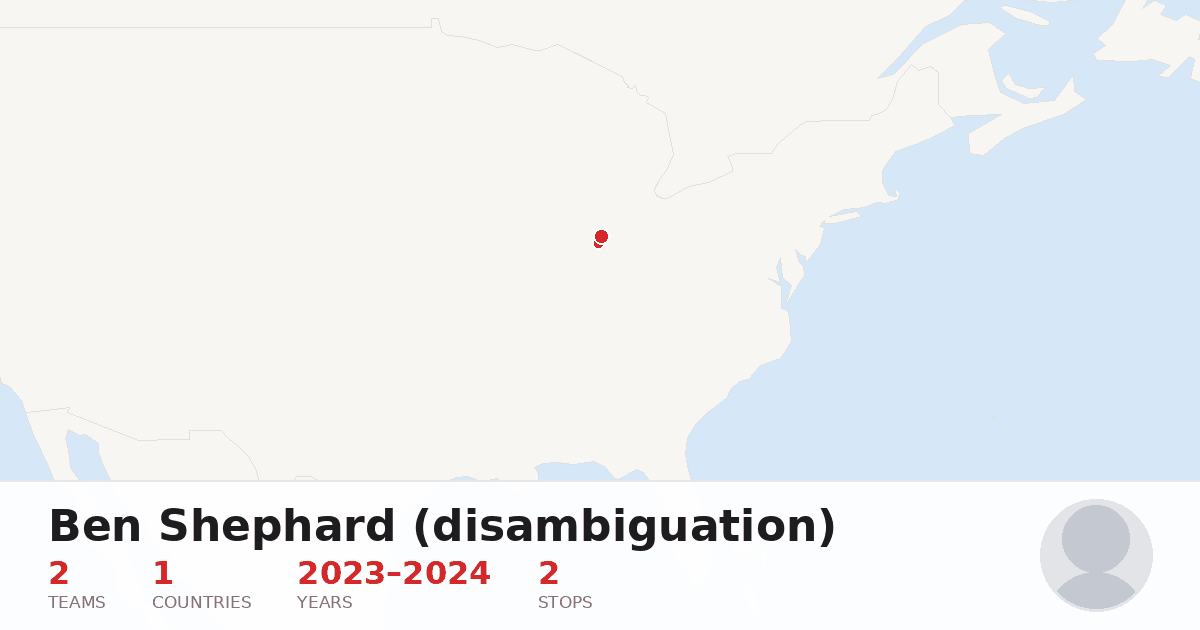
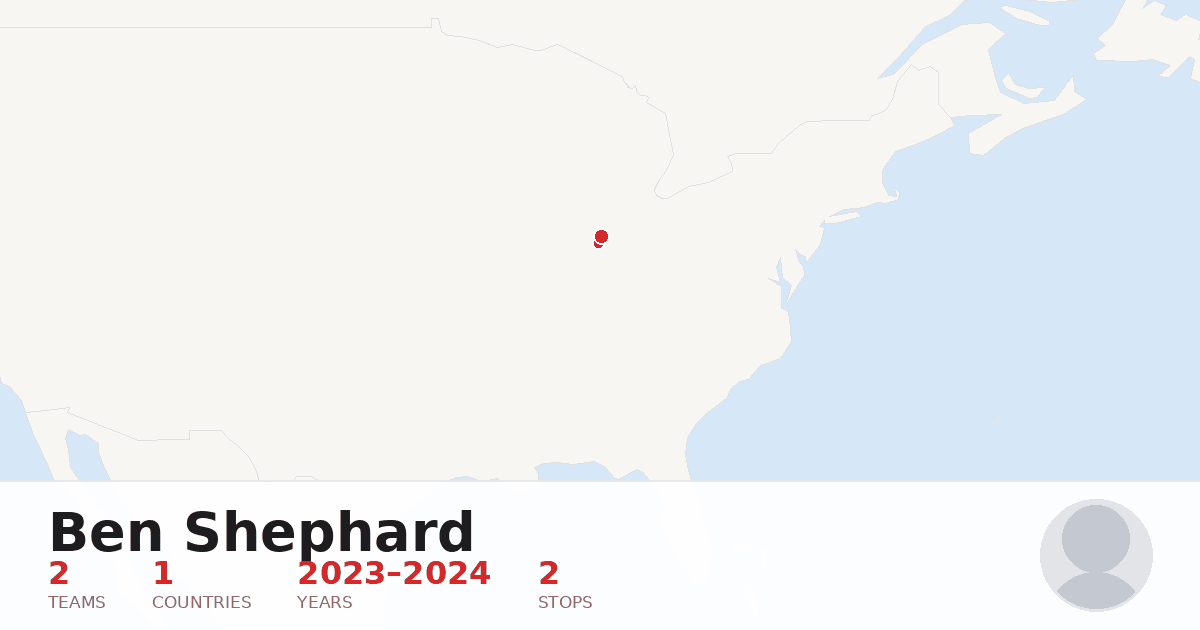
Never replace a career with an empty one
The first apply run condemned Michael Wilson's record, correctly -- his
thirteen stints were Mike Gibson's -- and then replaced them with a parse of an
article that has no infobox, leaving him with no career at all. A wrong career
is bad; no career is not an improvement. An article that parses to nothing now
leaves the record alone and is reported as a conflict.

Merged records also took the article's title as their display name, so the site
would have printed "Johnny Davis (NBA)" and "Kevin Porter (basketball, born
1950)". The disambiguator belongs to Wikipedia's index, not to the man; five
display names cleaned, and the merge no longer writes one.

Claude-Session: https://claude.ai/code/session_01JYLur1NWay3xq9MC3fUtkz

Changed region(s): [[0.0308, 0.7841, 0.7092, 0.9048]]

diff --git a/player/christapher-johnson.html b/player/christapher-johnson.html
@@ -5,33 +5,33 @@
 <meta name="viewport" content="width=device-width, initial-scale=1.0">
 <!-- Generated by scripts/prerender.py from the career database. Do not edit by
      hand: the next pipeline run overwrites it. -->
-<title>Where Has Chris Johnson (basketball, born 1990) Played? Every Team, City and Country | HoopsHype</title>
-<meta name="description" content="Chris Johnson (basketball, born 1990) played for 10 clubs in 3 countries: Rio Grande Valley Vipers, Memphis Grizzlies and more, last with Hapoel Jerusalem.">
+<title>Where Has Chris Johnson Played? Every Team, City and Country | HoopsHype</title>
+<meta name="description" content="Chris Johnson played for 10 clubs in 3 countries: Rio Grande Valley Vipers, Memphis Grizzlies, Boston Celtics and more, last with Hapoel Jerusalem.">
 <link rel="canonical" href="https://jsierrahoopshype.github.io/nba-career-map/player/christapher-johnson.html">
 <meta property="og:type" content="profile">
 <meta property="og:site_name" content="NBA Career Map">
-<meta property="og:title" content="Where Has Chris Johnson (basketball, born 1990) Played? Every Team, City and Country | HoopsHype">
-<meta property="og:description" content="Chris Johnson (basketball, born 1990) played for 10 clubs in 3 countries: Rio Grande Valley Vipers, Memphis Grizzlies and more, last with Hapoel Jerusalem.">
+<meta property="og:title" content="Where Has Chris Johnson Played? Every Team, City and Country | HoopsHype">
+<meta property="og:description" content="Chris Johnson played for 10 clubs in 3 countries: Rio Grande Valley Vipers, Memphis Grizzlies, Boston Celtics and more, last with Hapoel Jerusalem.">
 <meta property="og:url" content="https://jsierrahoopshype.github.io/nba-career-map/player/christapher-johnson.html">
-<meta property="og:image" content="https://jsierrahoopshype.github.io/nba-career-map/assets/og-career-map.png">
+<meta property="og:image" content="https://jsierrahoopshype.github.io/nba-career-map/assets/og/player/chris-johnson.png">
 <meta property="og:image:width" content="1200">
 <meta property="og:image:height" content="630">
-<meta property="og:image:alt" content="NBA career paths drawn as red arcs across a map of the United States, with NBA team logos at each stop">
+<meta property="og:image:alt" content="Chris Johnson's NBA career path drawn as red arcs across a world map, with a marker at every club he has played for">
 <meta name="twitter:card" content="summary_large_image">
-<meta name="twitter:title" content="Where Has Chris Johnson (basketball, born 1990) Played? Every Team, City and Country | HoopsHype">
-<meta name="twitter:description" content="Chris Johnson (basketball, born 1990) played for 10 clubs in 3 countries: Rio Grande Valley Vipers, Memphis Grizzlies and more, last with Hapoel Jerusalem.">
-<meta name="twitter:image" content="https://jsierrahoopshype.github.io/nba-career-map/assets/og-career-map.png">
-<meta name="twitter:image:alt" content="NBA career paths drawn as red arcs across a map of the United States, with NBA team logos at each stop">
+<meta name="twitter:title" content="Where Has Chris Johnson Played? Every Team, City and Country | HoopsHype">
+<meta name="twitter:description" content="Chris Johnson played for 10 clubs in 3 countries: Rio Grande Valley Vipers, Memphis Grizzlies, Boston Celtics and more, last with Hapoel Jerusalem.">
+<meta name="twitter:image" content="https://jsierrahoopshype.github.io/nba-career-map/assets/og/player/chris-johnson.png">
+<meta name="twitter:image:alt" content="Chris Johnson's NBA career path drawn as red arcs across a world map, with a marker at every club he has played for">
 <link rel="stylesheet" href="../assets/prerender.css">
 </head>
 <body>
 <header class="ph"><a class="brand" href="../index.html">NBA Career Map</a>
 <nav><a href="../teams.html">Teams</a><a href="../index.html?view=quiz">Quiz</a></nav></header>
 <main>
-<h1>Where has Chris Johnson (basketball, born 1990) played?</h1>
-<p class="lede">Chris Johnson (basketball, born 1990) played for 10 clubs in 3 countries: Rio Grande Valley Vipers, Memphis Grizzlies and more, last with Hapoel Jerusalem.</p>
+<h1>Where has Chris Johnson played?</h1>
+<p class="lede">Chris Johnson played for 10 clubs in 3 countries: Rio Grande Valley Vipers, Memphis Grizzlies, Boston Celtics and more, last with Hapoel Jerusalem.</p>
 <dl class="facts"><dt>Nationality</dt><dd>United States</dd><dt>Current team</dt><dd>Hapoel Jerusalem</dd></dl>
-<p class="cta"><a class="btn" href="../index.html?player=Christapher%20Johnson">Open Chris Johnson (basketball, born 1990)'s interactive career map</a></p>
+<p class="cta"><a class="btn" href="../index.html?player=Christapher%20Johnson">Open Chris Johnson's interactive career map</a></p>
 <table class="ct"><thead><tr><th>Years</th><th>Team</th><th>City</th><th>Country</th></tr></thead>
 <tbody>
 <tr><td class="yr">2012–2013</td><td>Rio Grande Valley Vipers</td><td>Edinburg</td><td>USA</td></tr>

diff --git a/player/kevin-porter.html b/player/kevin-porter.html
@@ -5,21 +5,21 @@
 <meta name="viewport" content="width=device-width, initial-scale=1.0">
 <!-- Generated by scripts/prerender.py from the career database. Do not edit by
      hand: the next pipeline run overwrites it. -->
-<title>Where Has Kevin Porter (basketball, born 1950) Played? Every Team, City and Country | HoopsHype</title>
-<meta name="description" content="Kevin Porter (basketball, born 1950) played for 4 clubs in 2 countries: Washington Bullets, Detroit Pistons, New Jersey Nets, last with Toyota Super Corollas.">
+<title>Where Has Kevin Porter Played? Every Team, City and Country | HoopsHype</title>
+<meta name="description" content="Kevin Porter played for 4 clubs in 2 countries: Washington Bullets, Detroit Pistons, New Jersey Nets, last with Toyota Super Corollas.">
 <link rel="canonical" href="https://jsierrahoopshype.github.io/nba-career-map/player/kevin-porter.html">
 <meta property="og:type" content="profile">
 <meta property="og:site_name" content="NBA Career Map">
-<meta property="og:title" content="Where Has Kevin Porter (basketball, born 1950) Played? Every Team, City and Country | HoopsHype">
-<meta property="og:description" content="Kevin Porter (basketball, born 1950) played for 4 clubs in 2 countries: Washington Bullets, Detroit Pistons, New Jersey Nets, last with Toyota Super Corollas.">
+<meta property="og:title" content="Where Has Kevin Porter Played? Every Team, City and Country | HoopsHype">
+<meta property="og:description" content="Kevin Porter played for 4 clubs in 2 countries: Washington Bullets, Detroit Pistons, New Jersey Nets, last with Toyota Super Corollas.">
 <meta property="og:url" content="https://jsierrahoopshype.github.io/nba-career-map/player/kevin-porter.html">
 <meta property="og:image" content="https://jsierrahoopshype.github.io/nba-career-map/assets/og-career-map.png">
 <meta property="og:image:width" content="1200">
 <meta property="og:image:height" content="630">
 <meta property="og:image:alt" content="NBA career paths drawn as red arcs across a map of the United States, with NBA team logos at each stop">
 <meta name="twitter:card" content="summary_large_image">
-<meta name="twitter:title" content="Where Has Kevin Porter (basketball, born 1950) Played? Every Team, City and Country | HoopsHype">
-<meta name="twitter:description" content="Kevin Porter (basketball, born 1950) played for 4 clubs in 2 countries: Washington Bullets, Detroit Pistons, New Jersey Nets, last with Toyota Super Corollas.">
+<meta name="twitter:title" content="Where Has Kevin Porter Played? Every Team, City and Country | HoopsHype">
+<meta name="twitter:description" content="Kevin Porter played for 4 clubs in 2 countries: Washington Bullets, Detroit Pistons, New Jersey Nets, last with Toyota Super Corollas.">
 <meta name="twitter:image" content="https://jsierrahoopshype.github.io/nba-career-map/assets/og-career-map.png">
 <meta name="twitter:image:alt" content="NBA career paths drawn as red arcs across a map of the United States, with NBA team logos at each stop">
 <link rel="stylesheet" href="../assets/prerender.css">
@@ -28,10 +28,10 @@
 <header class="ph"><a class="brand" href="../index.html">NBA Career Map</a>
 <nav><a href="../teams.html">Teams</a><a href="../index.html?view=quiz">Quiz</a></nav></header>
 <main>
-<h1>Where has Kevin Porter (basketball, born 1950) played?</h1>
-<p class="lede">Kevin Porter (basketball, born 1950) played for 4 clubs in 2 countries: Washington Bullets, Detroit Pistons, New Jersey Nets, last with Toyota Super Corollas.</p>
+<h1>Where has Kevin Porter played?</h1>
+<p class="lede">Kevin Porter played for 4 clubs in 2 countries: Washington Bullets, Detroit Pistons, New Jersey Nets, last with Toyota Super Corollas.</p>
 <dl class="facts"><dt>Nationality</dt><dd>United States</dd><dt>Current team</dt><dd>Toyota Super Corollas</dd></dl>
-<p class="cta"><a class="btn" href="../index.html?player=Kevin%20Porter">Open Kevin Porter (basketball, born 1950)'s interactive career map</a></p>
+<p class="cta"><a class="btn" href="../index.html?player=Kevin%20Porter">Open Kevin Porter's interactive career map</a></p>
 <table class="ct"><thead><tr><th>Years</th><th>Team</th><th>City</th><th>Country</th></tr></thead>
 <tbody>
 <tr><td class="yr">1972-1975</td><td>Washington Bullets</td><td>Washington</td><td>USA</td></tr>

diff --git a/player/johnny-davis.html b/player/johnny-davis.html
@@ -5,21 +5,21 @@
 <meta name="viewport" content="width=device-width, initial-scale=1.0">
 <!-- Generated by scripts/prerender.py from the career database. Do not edit by
      hand: the next pipeline run overwrites it. -->
-<title>Where Has Johnny Davis (NBA) Played? Every Team, City and Country | HoopsHype</title>
-<meta name="description" content="Johnny Davis (NBA) played for 4 clubs in the USA: Portland Trail Blazers, Indiana Pacers, Cleveland Cavaliers, last with Atlanta Hawks.">
+<title>Where Has Johnny Davis Played? Every Team, City and Country | HoopsHype</title>
+<meta name="description" content="Johnny Davis played for 4 clubs in the USA: Portland Trail Blazers, Indiana Pacers, Cleveland Cavaliers, last with Atlanta Hawks.">
 <link rel="canonical" href="https://jsierrahoopshype.github.io/nba-career-map/player/johnny-davis.html">
 <meta property="og:type" content="profile">
 <meta property="og:site_name" content="NBA Career Map">
-<meta property="og:title" content="Where Has Johnny Davis (NBA) Played? Every Team, City and Country | HoopsHype">
-<meta property="og:description" content="Johnny Davis (NBA) played for 4 clubs in the USA: Portland Trail Blazers, Indiana Pacers, Cleveland Cavaliers, last with Atlanta Hawks.">
+<meta property="og:title" content="Where Has Johnny Davis Played? Every Team, City and Country | HoopsHype">
+<meta property="og:description" content="Johnny Davis played for 4 clubs in the USA: Portland Trail Blazers, Indiana Pacers, Cleveland Cavaliers, last with Atlanta Hawks.">
 <meta property="og:url" content="https://jsierrahoopshype.github.io/nba-career-map/player/johnny-davis.html">
 <meta property="og:image" content="https://jsierrahoopshype.github.io/nba-career-map/assets/og-career-map.png">
 <meta property="og:image:width" content="1200">
 <meta property="og:image:height" content="630">
 <meta property="og:image:alt" content="NBA career paths drawn as red arcs across a map of the United States, with NBA team logos at each stop">
 <meta name="twitter:card" content="summary_large_image">
-<meta name="twitter:title" content="Where Has Johnny Davis (NBA) Played? Every Team, City and Country | HoopsHype">
-<meta name="twitter:description" content="Johnny Davis (NBA) played for 4 clubs in the USA: Portland Trail Blazers, Indiana Pacers, Cleveland Cavaliers, last with Atlanta Hawks.">
+<meta name="twitter:title" content="Where Has Johnny Davis Played? Every Team, City and Country | HoopsHype">
+<meta name="twitter:description" content="Johnny Davis played for 4 clubs in the USA: Portland Trail Blazers, Indiana Pacers, Cleveland Cavaliers, last with Atlanta Hawks.">
 <meta name="twitter:image" content="https://jsierrahoopshype.github.io/nba-career-map/assets/og-career-map.png">
 <meta name="twitter:image:alt" content="NBA career paths drawn as red arcs across a map of the United States, with NBA team logos at each stop">
 <link rel="stylesheet" href="../assets/prerender.css">
@@ -28,10 +28,10 @@
 <header class="ph"><a class="brand" href="../index.html">NBA Career Map</a>
 <nav><a href="../teams.html">Teams</a><a href="../index.html?view=quiz">Quiz</a></nav></header>
 <main>
-<h1>Where has Johnny Davis (NBA) played?</h1>
-<p class="lede">Johnny Davis (NBA) played for 4 clubs in the USA: Portland Trail Blazers, Indiana Pacers, Cleveland Cavaliers, last with Atlanta Hawks.</p>
+<h1>Where has Johnny Davis played?</h1>
+<p class="lede">Johnny Davis played for 4 clubs in the USA: Portland Trail Blazers, Indiana Pacers, Cleveland Cavaliers, last with Atlanta Hawks.</p>
 <dl class="facts"><dt>Nationality</dt><dd>United States</dd><dt>Current team</dt><dd>Atlanta Hawks</dd></dl>
-<p class="cta"><a class="btn" href="../index.html?player=Johnny%20Davis">Open Johnny Davis (NBA)'s interactive career map</a></p>
+<p class="cta"><a class="btn" href="../index.html?player=Johnny%20Davis">Open Johnny Davis's interactive career map</a></p>
 <table class="ct"><thead><tr><th>Years</th><th>Team</th><th>City</th><th>Country</th></tr></thead>
 <tbody>
 <tr><td class="yr">1976-1978</td><td>Portland Trail Blazers</td><td>Portland</td><td>USA</td></tr>

diff --git a/player/charles-smith-1975.html b/player/charles-smith-1975.html
@@ -5,21 +5,21 @@
 <meta name="viewport" content="width=device-width, initial-scale=1.0">
 <!-- Generated by scripts/prerender.py from the career database. Do not edit by
      hand: the next pipeline run overwrites it. -->
-<title>Where Has Charles Smith (1975) Played? Every Team, City and Country | HoopsHype</title>
-<meta name="description" content="Charles Smith (1975)'s NBA career path on the HoopsHype Career Map: every team, city and country, mapped stop by stop.">
+<title>Where Has Charles Smith Played? Every Team, City and Country | HoopsHype</title>
+<meta name="description" content="Charles Smith's NBA career path on the HoopsHype Career Map: every team, city and country, mapped stop by stop.">
 <link rel="canonical" href="https://jsierrahoopshype.github.io/nba-career-map/player/charles-smith-1975.html">
 <meta property="og:type" content="profile">
 <meta property="og:site_name" content="NBA Career Map">
-<meta property="og:title" content="Where Has Charles Smith (1975) Played? Every Team, City and Country | HoopsHype">
-<meta property="og:description" content="Charles Smith (1975)'s NBA career path on the HoopsHype Career Map: every team, city and country, mapped stop by stop.">
+<meta property="og:title" content="Where Has Charles Smith Played? Every Team, City and Country | HoopsHype">
+<meta property="og:description" content="Charles Smith's NBA career path on the HoopsHype Career Map: every team, city and country, mapped stop by stop.">
 <meta property="og:url" content="https://jsierrahoopshype.github.io/nba-career-map/player/charles-smith-1975.html">
 <meta property="og:image" content="https://jsierrahoopshype.github.io/nba-career-map/assets/og-career-map.png">
 <meta property="og:image:width" content="1200">
 <meta property="og:image:height" content="630">
 <meta property="og:image:alt" content="NBA career paths drawn as red arcs across a map of the United States, with NBA team logos at each stop">
 <meta name="twitter:card" content="summary_large_image">
-<meta name="twitter:title" content="Where Has Charles Smith (1975) Played? Every Team, City and Country | HoopsHype">
-<meta name="twitter:description" content="Charles Smith (1975)'s NBA career path on the HoopsHype Career Map: every team, city and country, mapped stop by stop.">
+<meta name="twitter:title" content="Where Has Charles Smith Played? Every Team, City and Country | HoopsHype">
+<meta name="twitter:description" content="Charles Smith's NBA career path on the HoopsHype Career Map: every team, city and country, mapped stop by stop.">
 <meta name="twitter:image" content="https://jsierrahoopshype.github.io/nba-career-map/assets/og-career-map.png">
 <meta name="twitter:image:alt" content="NBA career paths drawn as red arcs across a map of the United States, with NBA team logos at each stop">
 <link rel="stylesheet" href="../assets/prerender.css">
@@ -28,10 +28,10 @@
 <header class="ph"><a class="brand" href="../index.html">NBA Career Map</a>
 <nav><a href="../teams.html">Teams</a><a href="../index.html?view=quiz">Quiz</a></nav></header>
 <main>
-<h1>Where has Charles Smith (1975) played?</h1>
-<p class="lede">Charles Smith (1975)'s NBA career path on the HoopsHype Career Map: every team, city and country, mapped stop by stop.</p>
+<h1>Where has Charles Smith played?</h1>
+<p class="lede">Charles Smith's NBA career path on the HoopsHype Career Map: every team, city and country, mapped stop by stop.</p>
 <dl class="facts"><dt>Nationality</dt><dd>United States</dd></dl>
-<p class="cta"><a class="btn" href="../index.html?player=Charles%20Smith%20%281975%29">Open Charles Smith (1975)'s interactive career map</a></p>
+<p class="cta"><a class="btn" href="../index.html?player=Charles%20Smith%20%281975%29">Open Charles Smith's interactive career map</a></p>
 <p class="empty">No career history on record yet.</p>
 <p class="foot"><a href="../index.html">Every NBA player's career, mapped</a> ·
 <a href="../teams.html">Browse by team</a></p>

diff --git a/player/ben-sheppard.html b/player/ben-sheppard.html
@@ -5,21 +5,21 @@
 <meta name="viewport" content="width=device-width, initial-scale=1.0">
 <!-- Generated by scripts/prerender.py from the career database. Do not edit by
      hand: the next pipeline run overwrites it. -->
-<title>Where Has Ben Shephard (disambiguation) Played? Every Team, City and Country | HoopsHype</title>
-<meta name="description" content="Ben Shephard (disambiguation) has played for 2 clubs in the USA: Indiana Mad Ants, now with Indiana Pacers.">
+<title>Where Has Ben Shephard Played? Every Team, City and Country | HoopsHype</title>
+<meta name="description" content="Ben Shephard has played for 2 clubs in the USA: Indiana Mad Ants, now with Indiana Pacers.">
 <link rel="canonical" href="https://jsierrahoopshype.github.io/nba-career-map/player/ben-sheppard.html">
 <meta property="og:type" content="profile">
 <meta property="og:site_name" content="NBA Career Map">
-<meta property="og:title" content="Where Has Ben Shephard (disambiguation) Played? Every Team, City and Country | HoopsHype">
-<meta property="og:description" content="Ben Shephard (disambiguation) has played for 2 clubs in the USA: Indiana Mad Ants, now with Indiana Pacers.">
+<meta property="og:title" content="Where Has Ben Shephard Played? Every Team, City and Country | HoopsHype">
+<meta property="og:description" content="Ben Shephard has played for 2 clubs in the USA: Indiana Mad Ants, now with Indiana Pacers.">
 <meta property="og:url" content="https://jsierrahoopshype.github.io/nba-career-map/player/ben-sheppard.html">
 <meta property="og:image" content="https://jsierrahoopshype.github.io/nba-career-map/assets/og-career-map.png">
 <meta property="og:image:width" content="1200">
 <meta property="og:image:height" content="630">
 <meta property="og:image:alt" content="NBA career paths drawn as red arcs across a map of the United States, with NBA team logos at each stop">
 <meta name="twitter:card" content="summary_large_image">
-<meta name="twitter:title" content="Where Has Ben Shephard (disambiguation) Played? Every Team, City and Country | HoopsHype">
-<meta name="twitter:description" content="Ben Shephard (disambiguation) has played for 2 clubs in the USA: Indiana Mad Ants, now with Indiana Pacers.">
+<meta name="twitter:title" content="Where Has Ben Shephard Played? Every Team, City and Country | HoopsHype">
+<meta name="twitter:description" content="Ben Shephard has played for 2 clubs in the USA: Indiana Mad Ants, now with Indiana Pacers.">
 <meta name="twitter:image" content="https://jsierrahoopshype.github.io/nba-career-map/assets/og-career-map.png">
 <meta name="twitter:image:alt" content="NBA career paths drawn as red arcs across a map of the United States, with NBA team logos at each stop">
 <link rel="stylesheet" href="../assets/prerender.css">
@@ -28,10 +28,10 @@
 <header class="ph"><a class="brand" href="../index.html">NBA Career Map</a>
 <nav><a href="../teams.html">Teams</a><a href="../index.html?view=quiz">Quiz</a></nav></header>
 <main>
-<h1>Where has Ben Shephard (disambiguation) played?</h1>
-<p class="lede">Ben Shephard (disambiguation) has played for 2 clubs in the USA: Indiana Mad Ants, now with Indiana Pacers.</p>
+<h1>Where has Ben Shephard played?</h1>
+<p class="lede">Ben Shephard has played for 2 clubs in the USA: Indiana Mad Ants, now with Indiana Pacers.</p>
 <dl class="facts"><dt>Position</dt><dd>Shooting guard</dd><dt>Nationality</dt><dd>United States</dd><dt>Current team</dt><dd>Indiana Pacers</dd></dl>
-<p class="cta"><a class="btn" href="../index.html?player=Ben%20Sheppard">Open Ben Shephard (disambiguation)'s interactive career map</a></p>
+<p class="cta"><a class="btn" href="../index.html?player=Ben%20Sheppard">Open Ben Shephard's interactive career map</a></p>
 <table class="ct"><thead><tr><th>Years</th><th>Team</th><th>City</th><th>Country</th></tr></thead>
 <tbody>
 <tr><td class="yr">2023–present</td><td>Indiana Pacers</td><td>Indianapolis</td><td>USA</td></tr>

diff --git a/scripts/test_wiki_audit.py b/scripts/test_wiki_audit.py
@@ -166,6 +166,30 @@ def test_a_record_is_not_overwritten_by_an_article_that_disagrees_with_it():
     print("test_a_record_is_not_overwritten_by_an_article_that_disagrees_with_it PASS")
 
 
+def test_an_empty_parse_never_replaces_a_career():
+    """What went wrong on the first apply run.
+
+    Michael Wilson's thirteen stints were Mike Gibson's, so the record was
+    condemned and replaced -- with an article that parses to nothing. A wrong
+    career is bad; no career is not better. The record is left alone and
+    reported instead.
+    """
+    records = [{"player": "Michael Wilson", "status": "retired",
+                "wikipedia_url": "https://en.wikipedia.org/wiki/Michael_Gibson_(basketball)",
+                "career_history": [{"years": "1997", "team": "Memphis Tigers",
+                                    "city": "Memphis", "country": "USA"}]}]
+    db, _sb = _db(records)
+    client = FakeClient()
+    client.get_wikitext_and_title = lambda t: (
+        ("== Career ==\nNo infobox here.\n", "Michael Wilson")
+        if t == "Michael Wilson" else (None, None))
+    result = aud.fix(client, db, ["Michael Wilson"], 2026)
+    assert not result["fixed"], result["fixed"]
+    assert result["conflicts"][0]["conflict"] == "the article parsed to nothing"
+    assert len(db.by_name["Michael Wilson"]["career_history"]) == 1
+    print("test_an_empty_parse_never_replaces_a_career PASS")
+
+
 def test_dedupe_unions_the_stints_and_keeps_the_canonical_key():
     db, _sb = _db([dict(r) for r in RECORDS])
     report = aud.sweep(FakeClient(), [db.by_name[n] for n in db.order])
@@ -180,6 +204,8 @@ def test_dedupe_unions_the_stints_and_keeps_the_canonical_key():
     teams = sorted(s["team"] for s in kept["career_history"])
     assert teams == ["New York Knicks", "Orlando Magic"], teams
     assert "Pat Ewing" in kept["aliases"]
+    # the display name is a name, not an article's disambiguator
+    assert "(" not in (kept.get("display_name") or ""), kept.get("display_name")
     # the all-star count only one row carried is not lost in the merge
     assert kept["all_star_count"] == 11, kept.get("all_star_count")
     print("test_dedupe_unions_the_stints_and_keeps_the_canonical_key PASS")
@@ -249,6 +275,7 @@ if __name__ == "__main__":
     test_the_sweep_names_the_record_built_from_the_wrong_article()
     test_the_fix_replaces_the_invented_career_with_the_real_one()
     test_a_record_is_not_overwritten_by_an_article_that_disagrees_with_it()
+    test_an_empty_parse_never_replaces_a_career()
     test_dedupe_unions_the_stints_and_keeps_the_canonical_key()
     test_dedupe_refuses_to_bury_a_wrong_article_record()
     test_one_article_does_not_make_two_players_one()

diff --git a/scripts/audit_wiki_titles.py b/scripts/audit_wiki_titles.py
@@ -141,17 +141,21 @@ def _replace_career(db, rec: dict, title: str, wt: str, client,
     fresh.pop("_raw_teams", None)
     before = [f"{s.get('years')} {s.get('team')}"
               for s in rec.get("career_history") or []]
+    here, there = _stints(rec), _stints(fresh)
+    if here and not there:
+        # An article that parses to nothing is not an improvement on a career,
+        # even a wrong one: Michael Wilson's thirteen stints were another man's,
+        # and replacing them with an empty list lost the record instead of
+        # repairing it.
+        return {"player": rec["player"], "article": title, "before": before,
+                "after": None, "new_teams": [],
+                "conflict": "the article parsed to nothing",
+                "status": rec.get("status")}
     if not replace:
-        here, there = _stints(rec), _stints(fresh)
         if here and there and not (here & there):
             return {"player": rec["player"], "article": title,
                     "before": before, "after": None, "new_teams": [],
                     "conflict": "shares no stint with the article",
-                    "status": rec.get("status")}
-        if here and not there:
-            return {"player": rec["player"], "article": title,
-                    "before": before, "after": None, "new_teams": [],
-                    "conflict": "the article parsed to nothing",
                     "status": rec.get("status")}
     rec["career_history"] = fresh.get("career_history", [])
     rec["current_team"] = fresh.get("current_team", "")

diff --git a/scripts/dedupe_alias_records.py b/scripts/dedupe_alias_records.py
@@ -208,7 +208,10 @@ def _merge(db, article: str, keys: list) -> dict:
 
     rec["career_history"] = list(stints.values())
     rec["wikipedia_url"] = canonical_url(article)
-    rec["display_name"] = rec.get("display_name") or article
+    # the article's title, not its disambiguator: the frontend prints this,
+    # and nobody is called "Johnny Davis (NBA)"
+    rec["display_name"] = (rec.get("display_name")
+                           or re.sub(r"\s*\(.*?\)", "", article).strip())
     aliases = set(rec.get("aliases") or [])
     for k in dropped:
         aliases.add(k)
